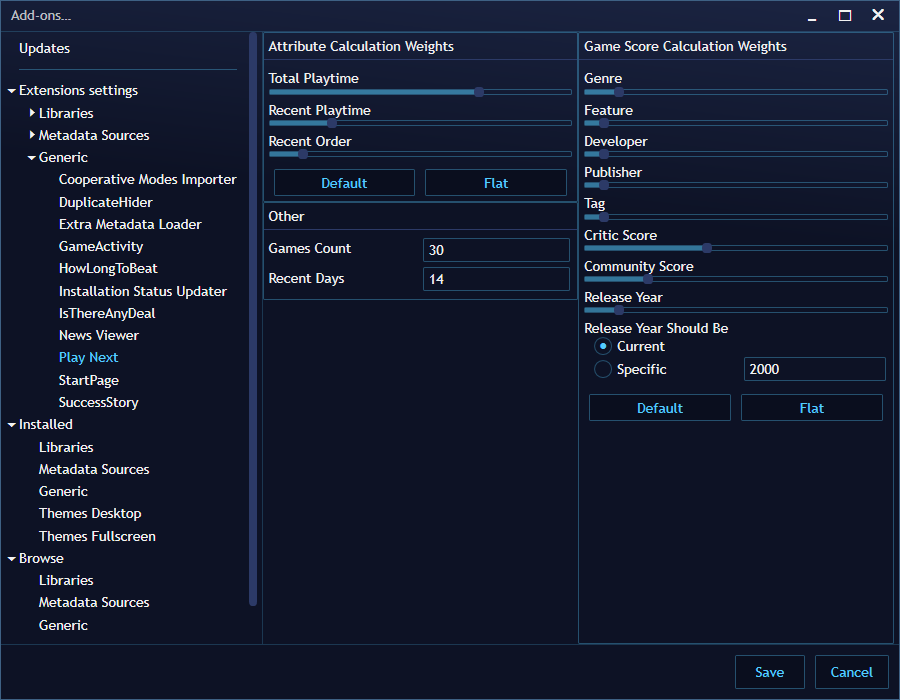
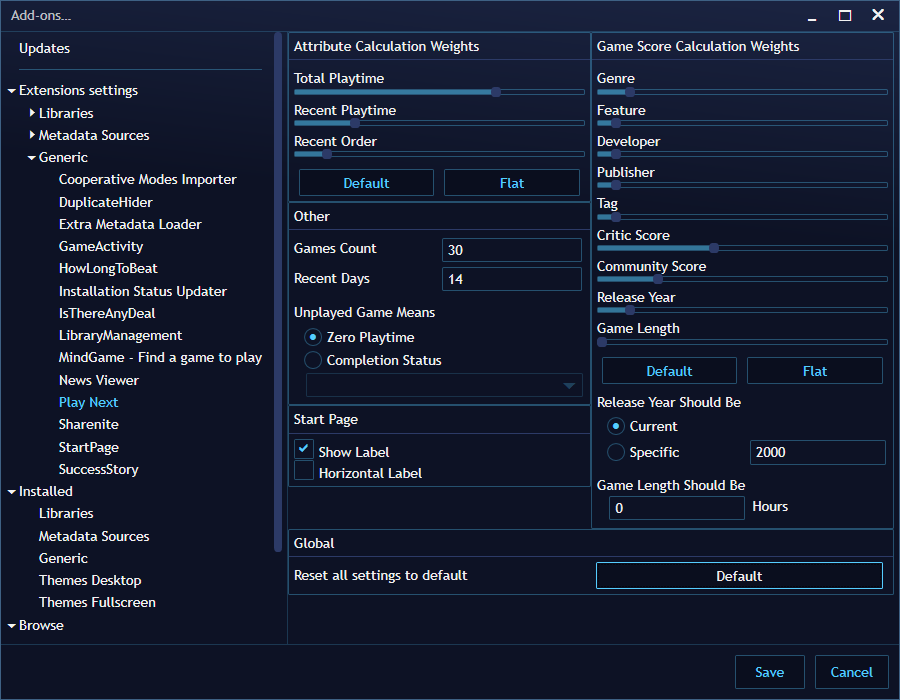
Updated readme

diff --git a/README.md b/README.md
@@ -22,7 +22,8 @@ Total Play Next score is calculated by weighting and adding up following attribu
 | Tag | Attribute score |
 | Critic Score | Itself |
 | Community Score | Itself |
-| Release Year | How close to prefered year it is |
+| Release Year | How close to preferred year it is. It can either be the current year (ie newer games are preferred), or a specific one |
+| Game Length | How close to preferred length it is. The length can be specified in hours. Requires HowLongToBeat addon ⚠  |
 
 Attribute score depends on your activity:
 
@@ -30,7 +31,57 @@ Attribute score depends on your activity:
 | --------- | ---------- |
 | Total Playtime | All playtime |
 | Recent Playtime | Playtime within recent days, requires GameActivity addon ⚠ |
-| Recent Order | Order of games played in recend days |
+| Recent Order | Order of games played in recent days |
+
+## Algorithm
+Algorithm works in two steps:
+1. It calculates scores for attributes (genre, feature, developer, publisher, tag);
+2. It uses attribute score with additional game properties to calculate the final score.
+
+### Attribute Score Calculation
+#### Total Playtime
+We iterate through all games that have any playtime. The attributes of the most played game get the maximum score while other games' attributes get proportionally smaller scores (depending on playtime).
+
+#### Recent Playtime
+Same as Total Playtime, except we use recent playtime withing configured recent days to get the attribute scores.
+
+#### Recent Order
+In a way it's a poor man's Recent Playtime. It just orders games played within recent days and assigns the highest score to most recent game's attributes, giving proportionally smaller scores to older game's attributes, ending with zero for the last one.
+
+### Game Score Calculation
+
+#### Attribute Scores
+Adds up score to the game score using the different attribute scores calculated by playtime / recent order.
+
+#### Critic Score
+Just adds the game's critic score to the score. Zero if game has no critic score.
+
+#### Community Score
+Just adds the game's community score to the score. Zero if game has no community score.
+
+#### Release Year
+Takes release years for all games and then assigns the scores depending on the difference from the preferred year. If the game's release year matches, the game gets maximum score. The other release years earn proportionally less score, depending on the difference from preferred release year. The biggest difference will earn zero score.
+
+For example if our prefered year is 2000 and our biggest difference game is from 2010, then we get these scores:
+* Year 1990 - 0;
+* Year 1995 - 50;
+* Year 2000 - 100;
+* Year 2005 - 50;
+* Year 2010 - 0;
+
+#### Game Length
+Takes the game lengths for all games and assings the scores depending on the difference from the preferred length.
+For example if our preferred length is 20 hours and the biggest difference is a game of length 40 hours, then we get these scores:
+* Hours 0 - 0;
+* Hours 10 - 50;
+* Hours 20 - 100;
+* Hours 30 - 50;
+* Hours 40 - 0;
+
+### Weighting
+Weighting sets a maximum amount of score a specific part of algorigthm can contribute to the end result. That means in attribute score calculation weights set how much specific types influence the attribute scores. And in game score calculation we specify how much those attribute types influence the final score for games that will get recommended.
+
+This lets us fine tune algorithm to get the games we prefer. For example we can aim for games with the same genre we played a lot and games with high critic scores.
 
 ## Installation
 You can install it either from Playnite's addon browser, or from [the web addon browser](https://playnite.link/addons.html#SparrowBrain_PlayNext).
@@ -43,6 +94,9 @@ PlayNext has a custom view for [StartPage](https://github.com/felixkmh/StartPage
 
 ### GameActivity
 In order to get attribute score calculation based on Recent Playtime to work you will need to have [GameActivity](https://github.com/Lacro59/playnite-gameactivity-plugin) addon installed.
+
+### HowLongToBeat
+In order to calculate the score depending on the game length you will need to have [HowLongToBeat](https://github.com/Lacro59/playnite-howlongtobeat-plugin) addon installed.
 
 ## Localization
 You can help translate the extension to your language on the [Crowdin](https://crowdin.com/project/sparrowbrain-playnite-playnext) page.
